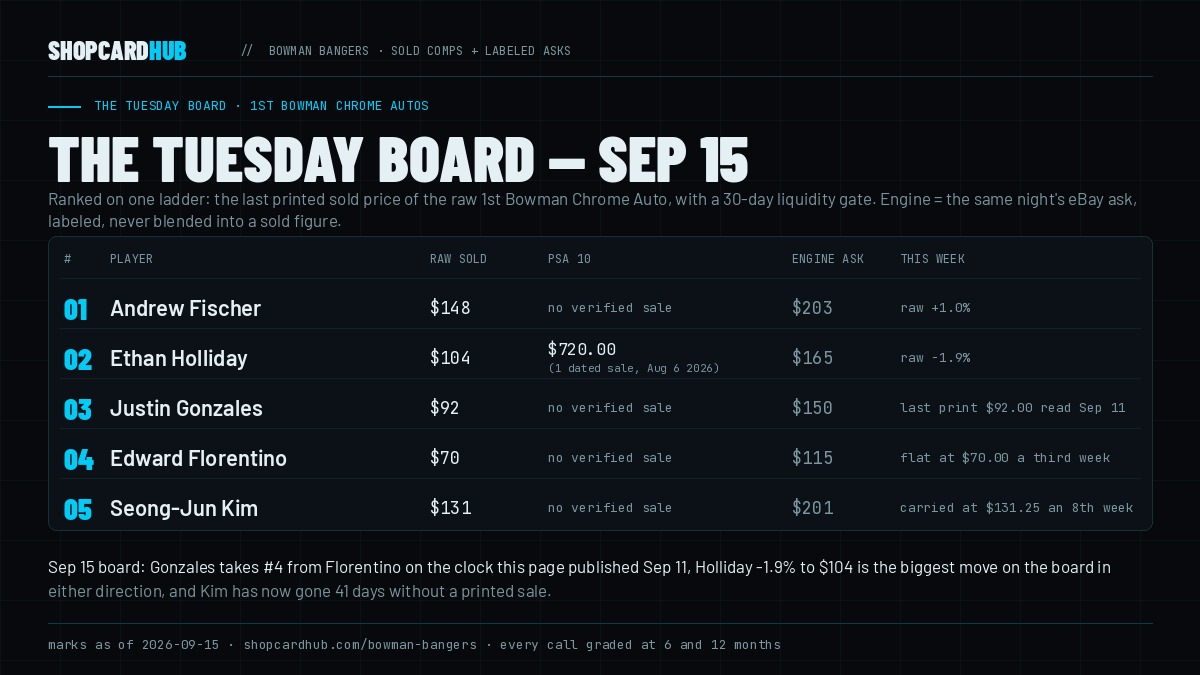
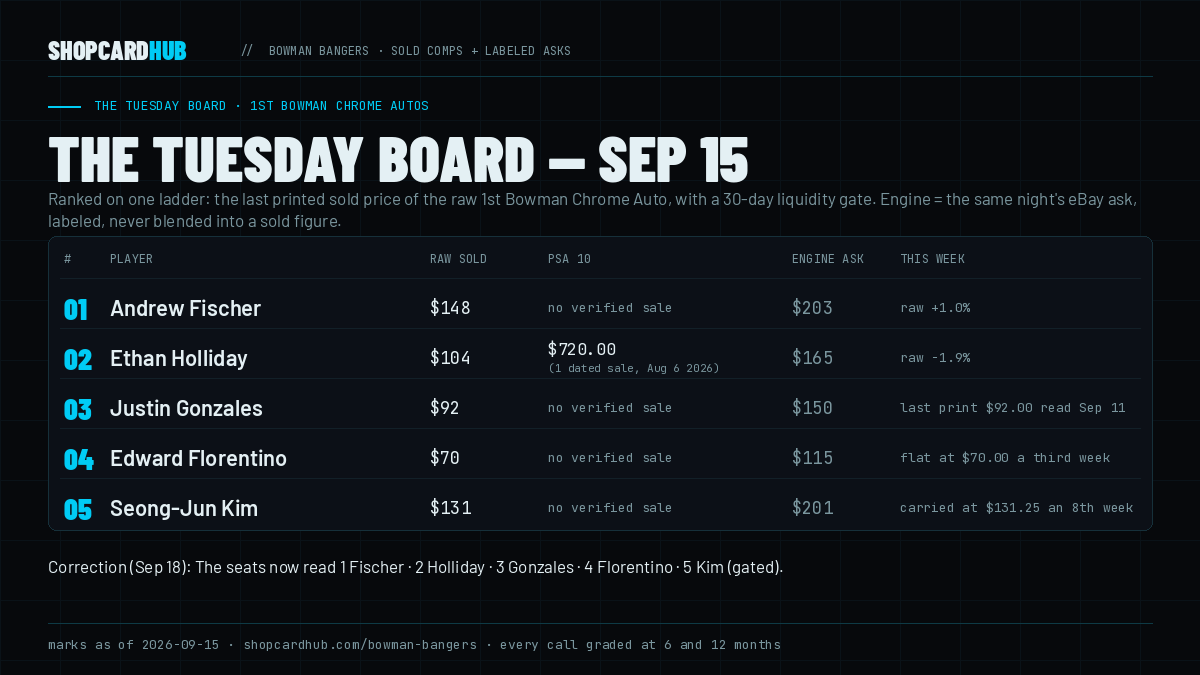
Vendor handoff: x-board.json carries the page's current signal; the tape caption follows the newest correction
X Desk Watch 2026-09-21, two inherited FAILs in our own vendor files (vendor exonerated):
1. data/x-board.json published the logged Scorecard call under "verdict" — Fischer BUY vs the page's HOLD,
   Holliday BUY vs SELL, Kim WAIT vs PASS; Florentino carried grade:"wrong" on an ungraded call. Now:
   currentSignal parsed off each seat (Signal stat, else the "Verdict:" line; build fails if absent),
   the historical call renamed loggedCall with a scope line, grade only on a finalised graded call.
2. Both generators printed the Sep 15 tape column's "Gonzales takes #4 from Florentino" beneath a table
   seating him #3, because the page's "Correction · Sep 18" block superseded that column and neither
   generator read it. Both now take the newest dated correction when it is newer than the tape column,
   and assert that the caption never seats a player at a number the table beside it does not
   (negative-tested against the exact stale caption).

Regenerated data/x-board.json and og/x/board-latest.png from the live page (marks unchanged, Sep 15).

Task-key: cos-cadence-cut
Authority: Mo in chat 2026-09-21 ("take this over and send the grok bots what they need")

Claude-Session: https://claude.ai/code/session_011BS87QkuX23MhfFeiSVJYC

Changed region(s): [[0.0308, 0.8089, 0.8325, 0.9022], [0.8633, 0.84, 0.925, 0.8711]]

diff --git a/tools/x-images/make.py b/tools/x-images/make.py
@@ -247,6 +247,15 @@ def card_bangers(out):
     strip = lambda t: _h.unescape(re.sub(r"<[^>]+>", "", t)).replace("\u2212", "-").replace("\u2192", "->").replace("\u2014", "-").strip()
     stamp = re.search(r'data-prices-updated="(\d{4}-\d{2}-\d{2})"', page).group(1)
     head = strip(re.search(r'&#9889; <strong>(.*?)</strong>', page, re.S).group(1))
+    # A dated "Correction · <date>" block NEWER than the tape column supersedes the column's callout (Sep 21
+    # 2026: the image printed "Gonzales takes #4 from Florentino" under a table seating him #3). Same rule as
+    # tools/build-x-board.mjs — the two artifacts must never disagree with each other or with the page.
+    _MON = {m: i for i, m in enumerate(["Jan","Feb","Mar","Apr","May","Jun","Jul","Aug","Sep","Oct","Nov","Dec"], 1)}
+    for _cm in re.finditer(r'<div class="section-eyebrow">Correction\s*(?:&middot;|\u00b7)\s*([A-Z][a-z]{2}) (\d{1,2}), (\d{4})</div>\s*<div class="alert-bar"[^>]*>(.*?)</div>', page, re.S):
+        _iso = f"{_cm.group(3)}-{_MON[_cm.group(1)]:02d}-{int(_cm.group(2)):02d}"
+        if _iso <= stamp: continue
+        _seats = re.search(r'seats now read[^.]*\.', strip(_cm.group(4)))
+        head = f"Correction ({_cm.group(1)} {_cm.group(2)}): " + (("The " + _seats.group(0)) if _seats else strip(re.search(r'<strong>(.*?)</strong>', _cm.group(4), re.S).group(1)))
     rows = []
     for m in re.finditer(r'<div class="entry-rank">(\d\d)</div>(.*?)<div class="entry-since">', page, re.S):
         rk, blk = m.group(1), m.group(2)
@@ -260,6 +269,12 @@ def card_bangers(out):
         ctx = re.split(r"[;,]|\s-\s", ctx)[0].strip()  # first clause only (em-dash already normalised to "-") — the rest is on the page
         rows.append((rk, nm, raw, eng, psa, ctx))
     rows = rows[:5]
+    # The headline may not seat a player at a number the table beside it does not — affirmative seatings only.
+    for rk, nm, *_ in rows:
+        _sn = re.escape(nm.split()[-1])
+        for _mm in re.finditer(rf"(?:#?\b(\d)\s+{_sn}\b|{_sn}\s+(?:takes|to|at|holds|moves to|climbs to|drops to)\s+#(\d))", head):
+            _n = int(_mm.group(1) or _mm.group(2))
+            if _n != int(rk): raise SystemExit(f"tape headline seats {nm} #{_n} but the table seats him #{int(rk)}: {head!r}")
     dt = datetime.date.fromisoformat(stamp)
     # The ranking rule is READ OFF THE PAGE, never hardcoded. It changed on 2026-09-17, and a baked-in
     # sentence would publish a methodology the page no longer uses. First <p class="section-intro"> is the rule.
